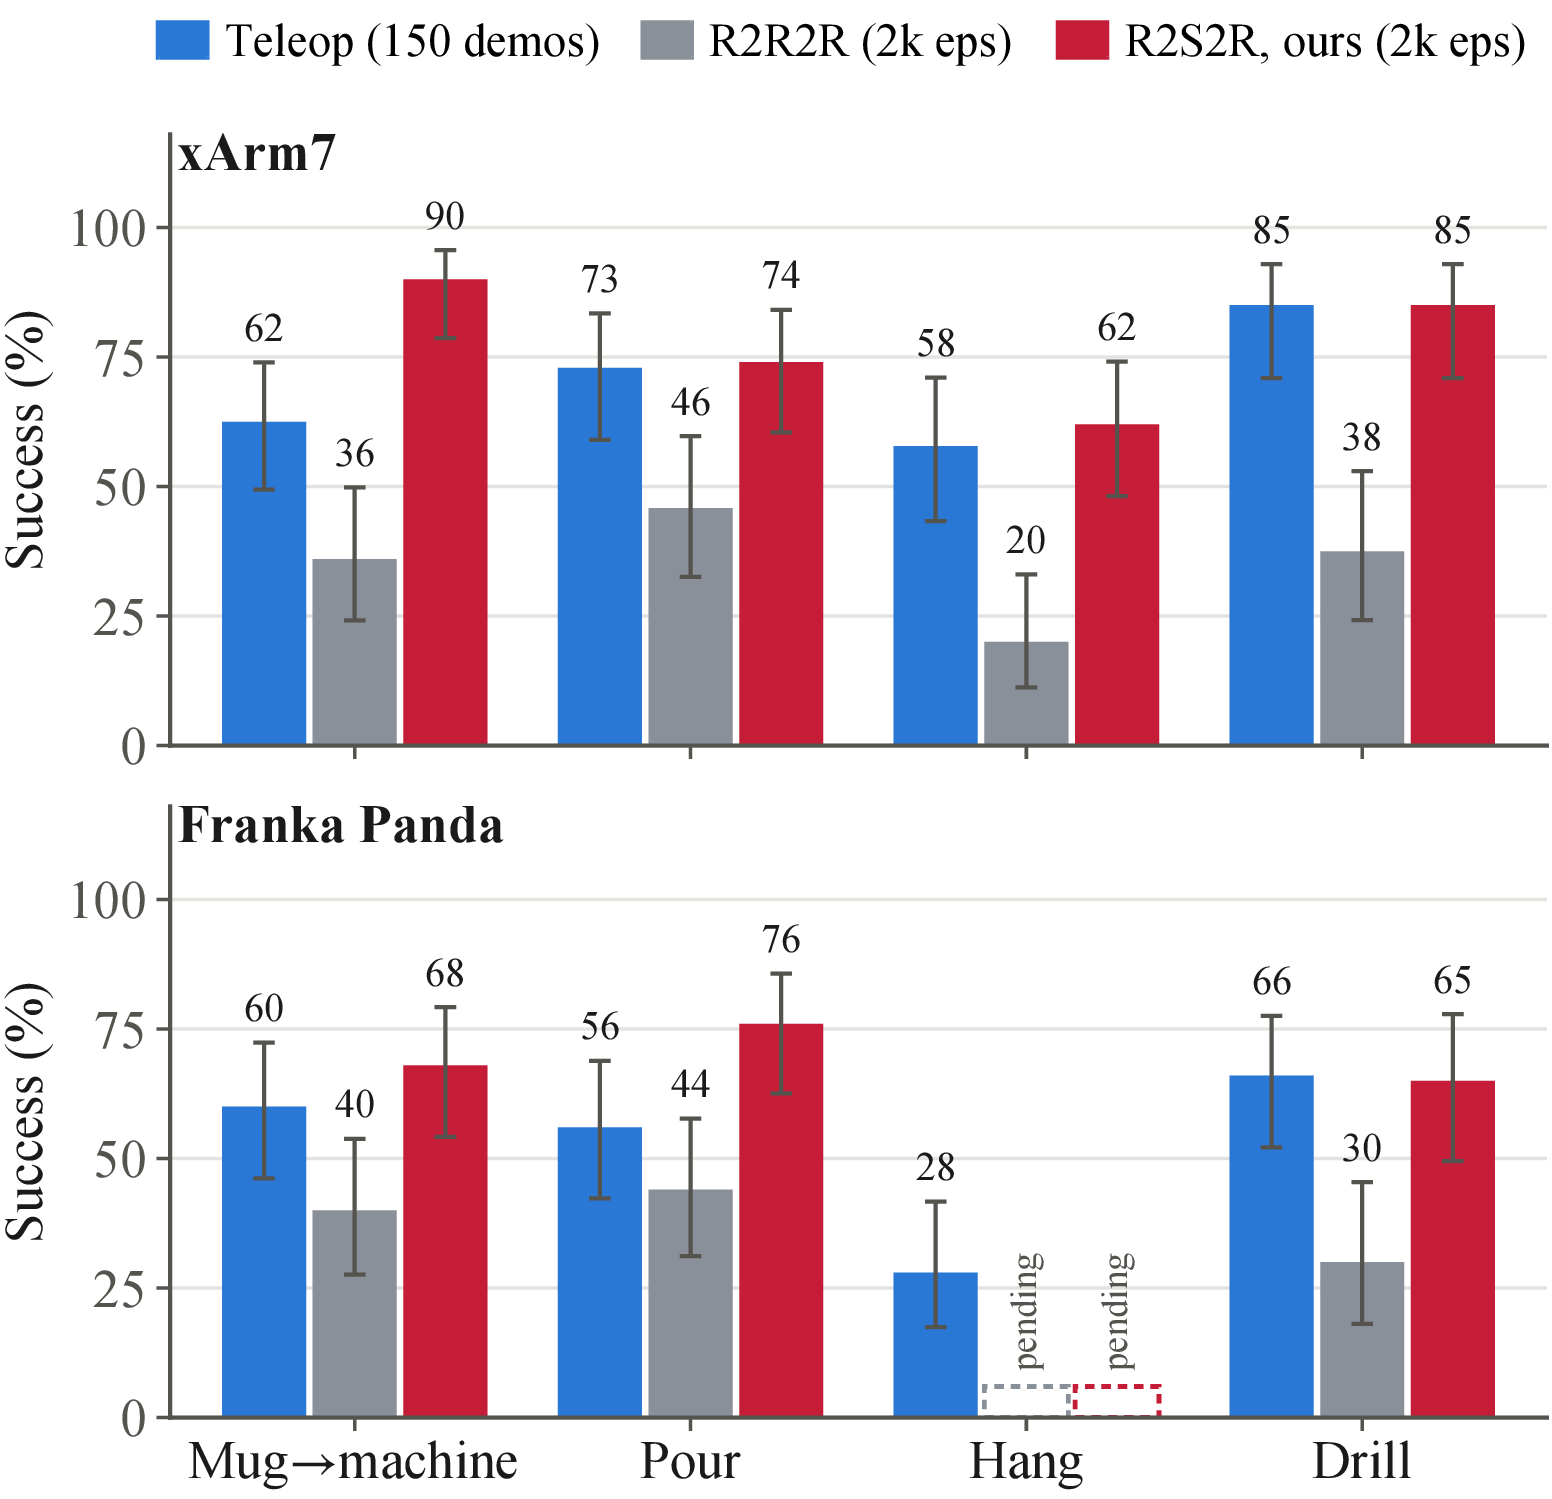
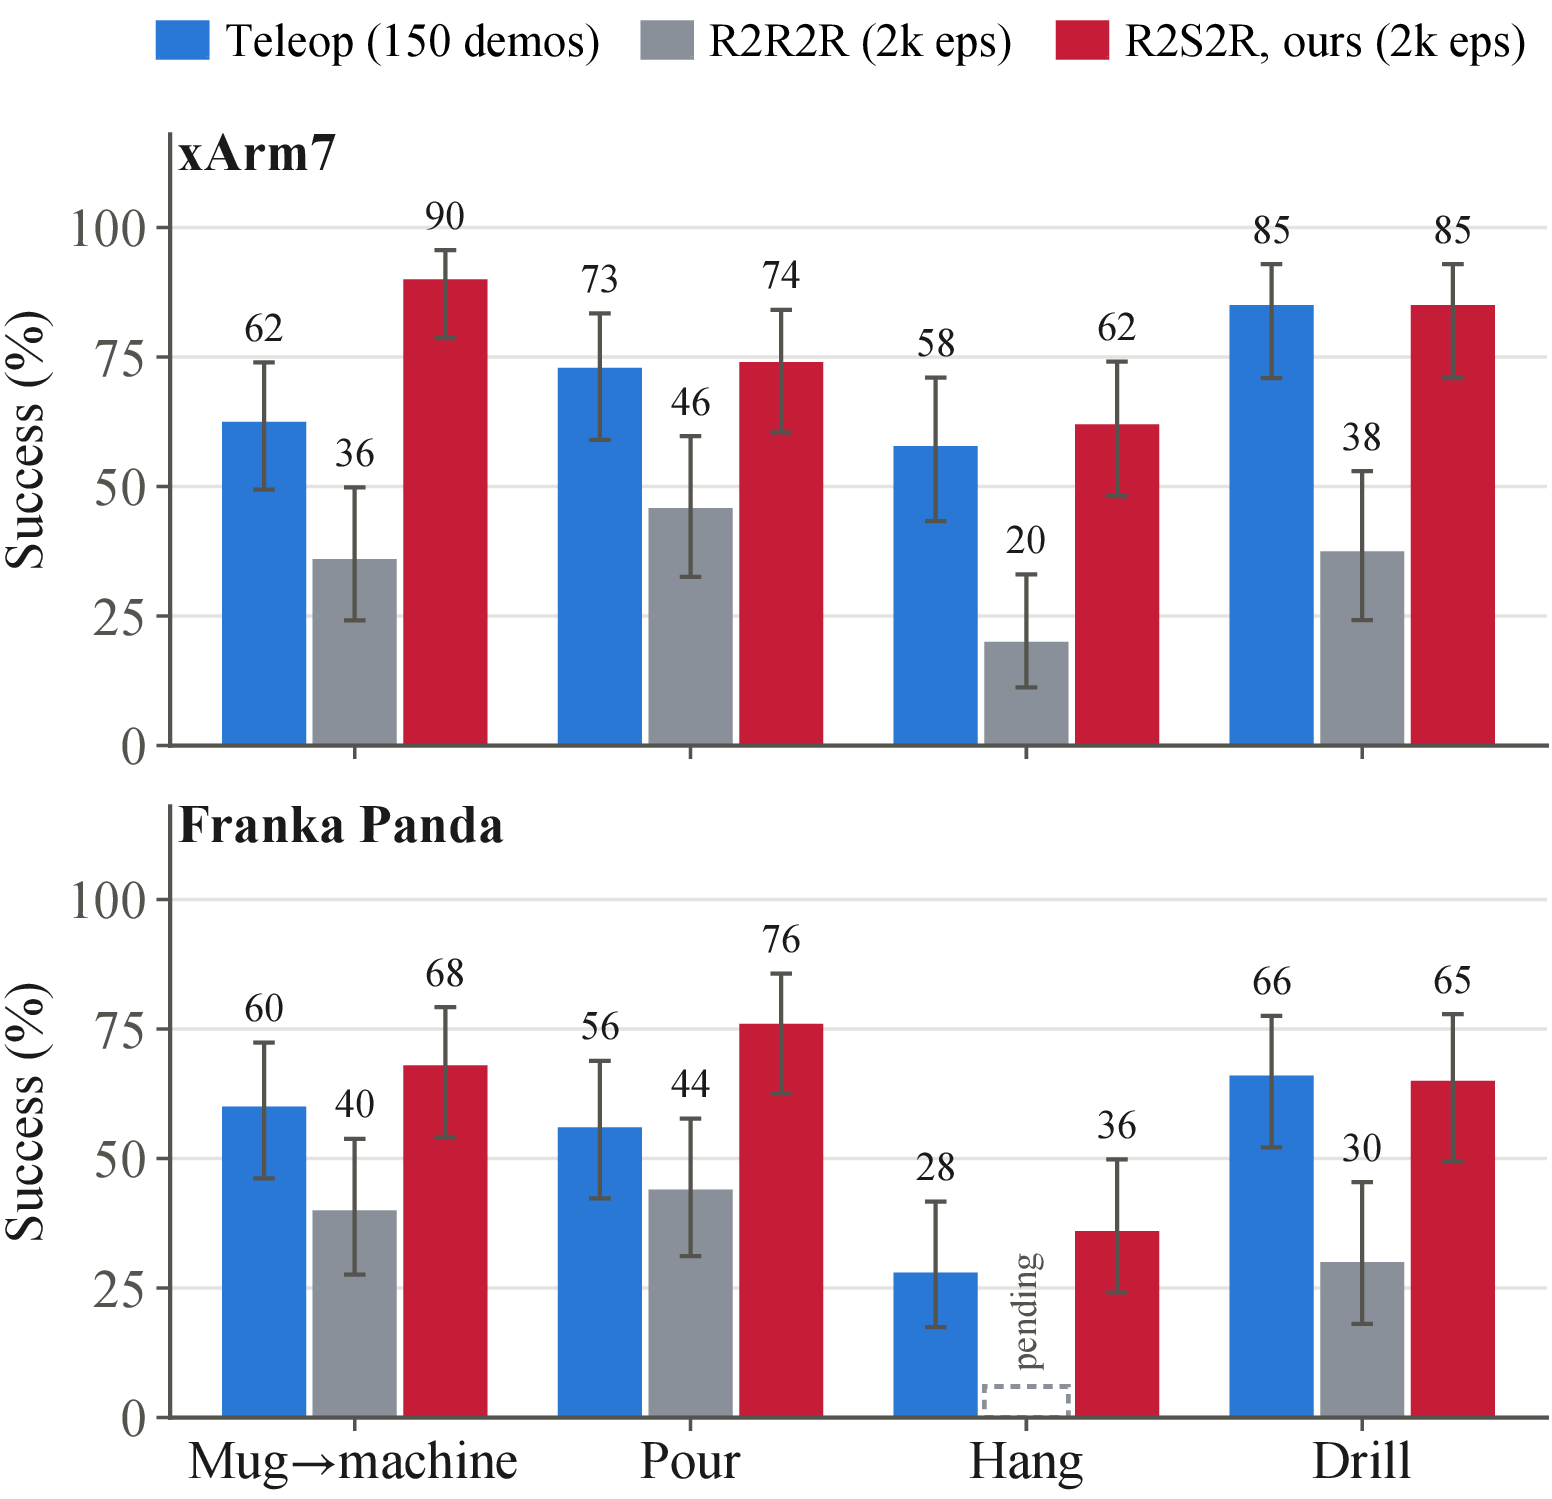
Results: Panda mug tree R2S2R 18/50

Changed region(s): [[0.6804, 0.7365, 0.7732, 0.9513]]

diff --git a/index.html b/index.html
@@ -556,7 +556,7 @@
              ['Drill pick and place',[34,40],[15,40],[34,40]]],
       panda:[['Mug on coffee machine',[30,50],[20,50],[34,50]],
              ['Pour into bowl',[28,50],[22,50],[38,50]],
-             ['Hang on mug tree',[14,50],null,null],
+             ['Hang on mug tree',[14,50],null,[18,50]],
              ['Drill pick and place',[33,50],[12,40],[26,40]]]
     };
     var NAME={xarm7:'xArm7',panda:'Franka Panda'};
